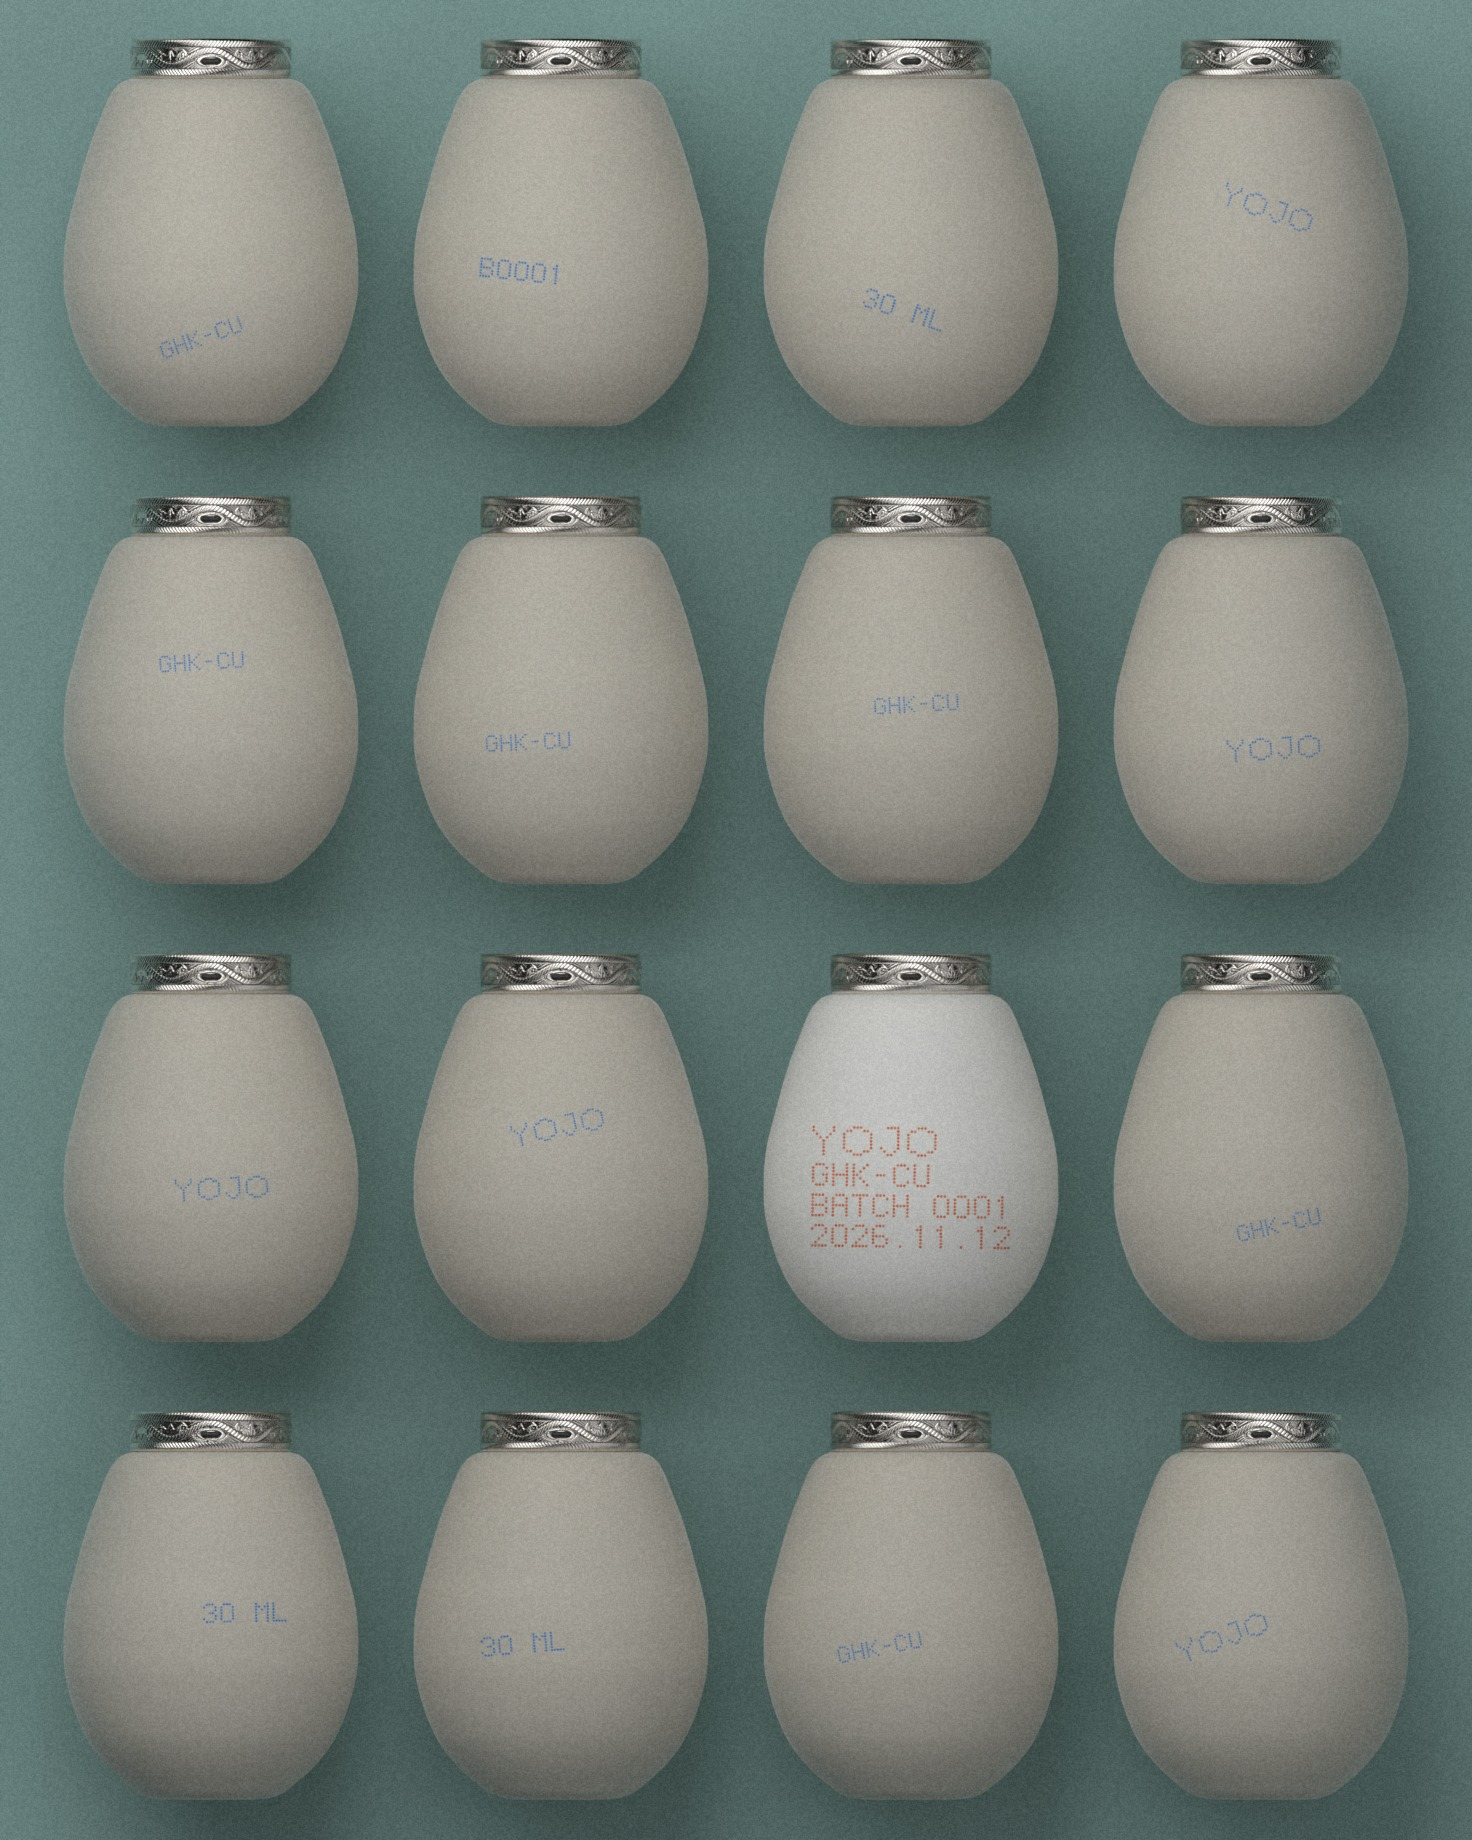
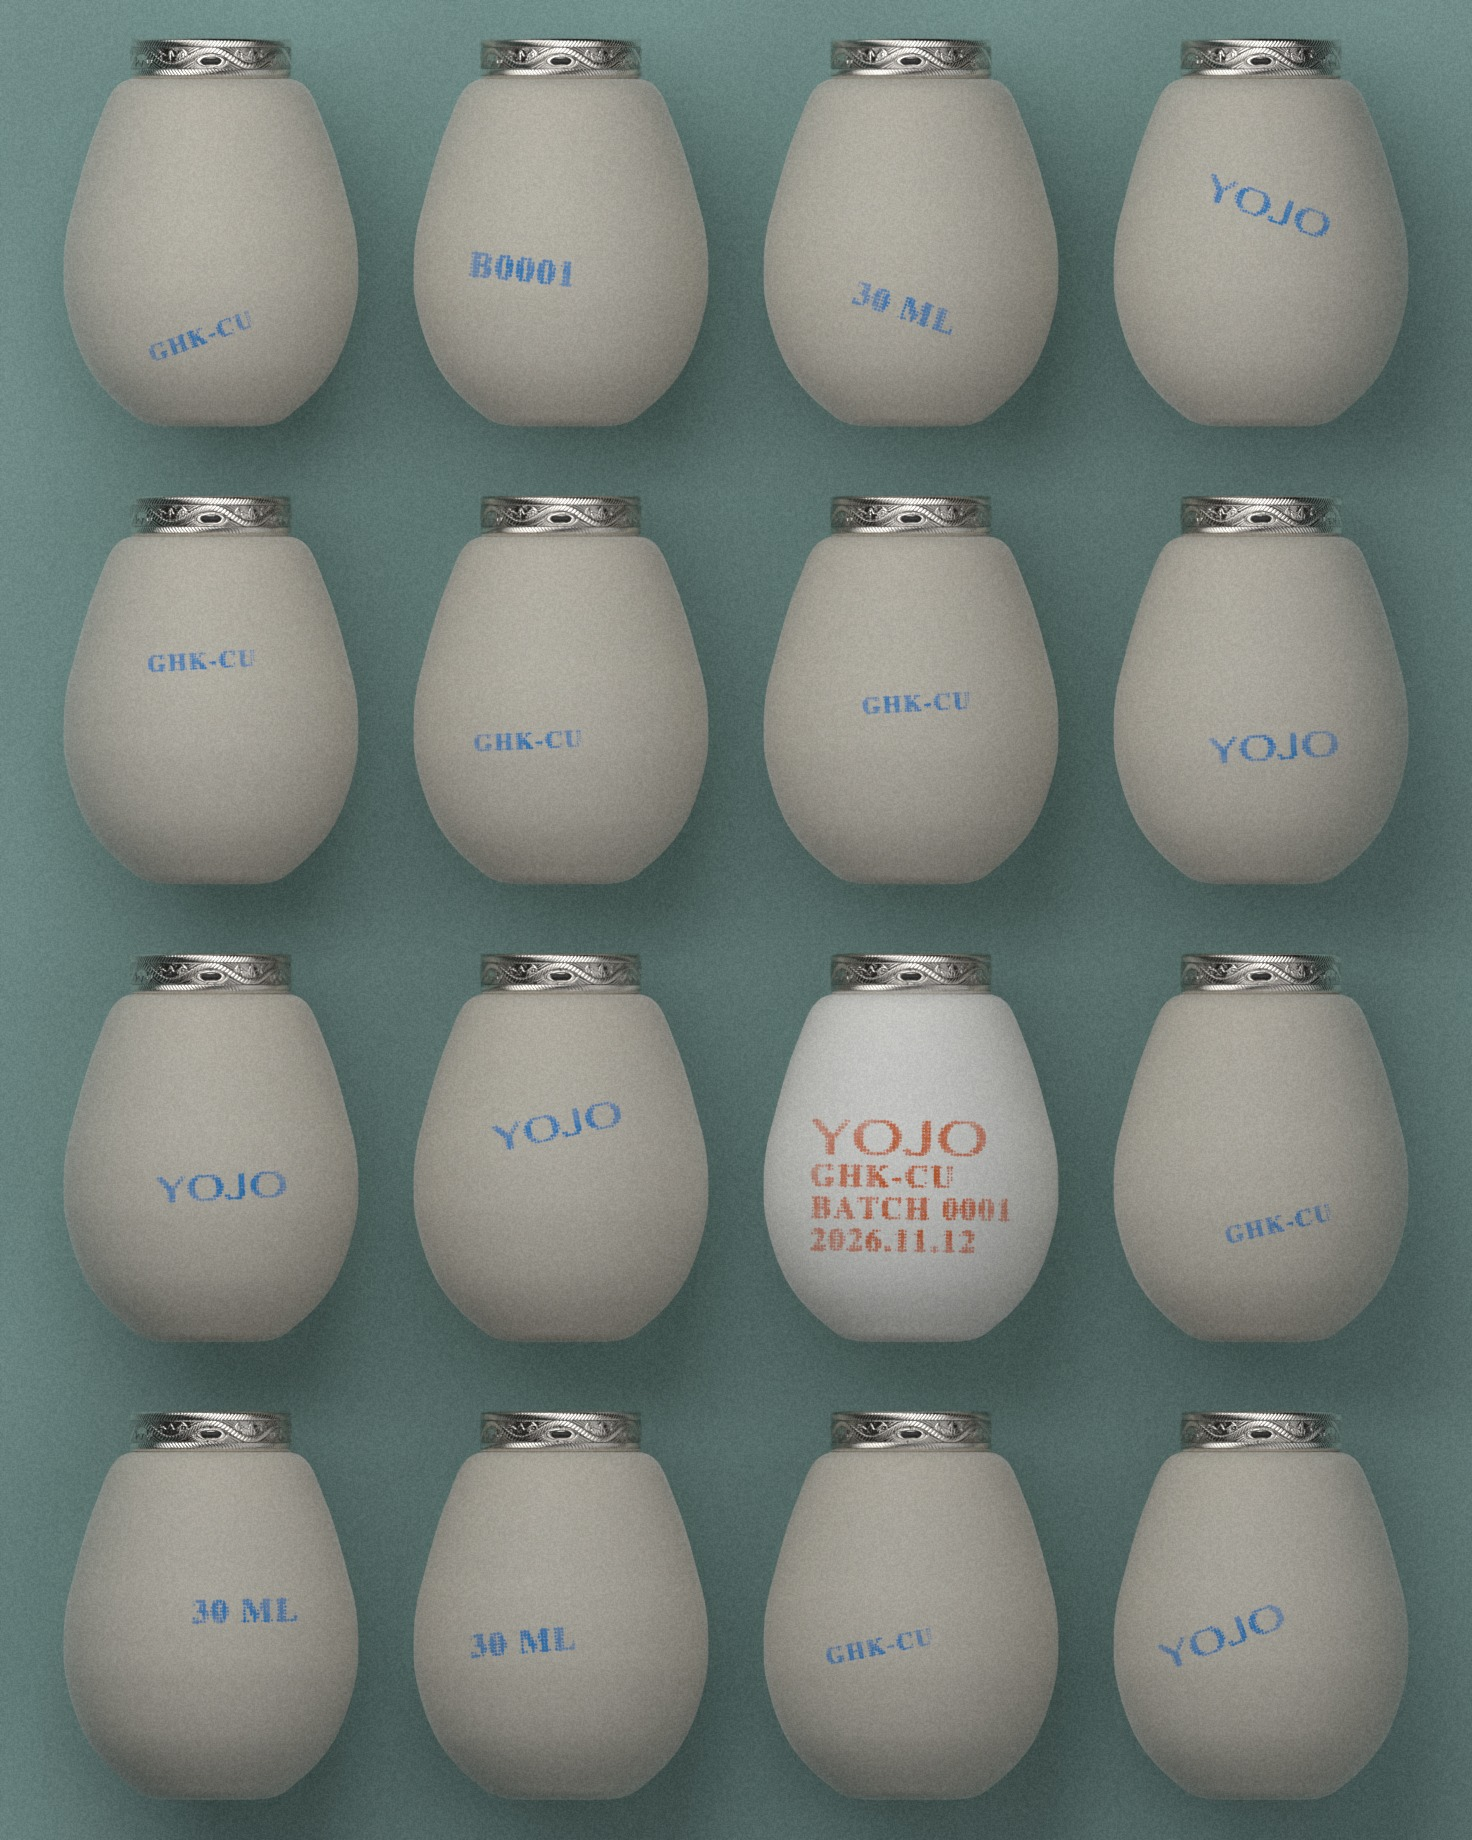
Batch stamp: halftone serif from the wordmark, printed like a real stamp; grid re-rendered
Claude-Session: https://claude.ai/code/session_01LTamVAmjQRnS3kntakEzcs

diff --git a/yojo/model/stamp/dirs.py b/yojo/model/stamp/dirs.py
@@ -1,0 +1,84 @@
+import numpy as np, random
+from PIL import Image, ImageDraw, ImageFont, ImageFilter
+INTER_BLACK = '/usr/share/fonts/opentype/inter/Inter-Black.otf'
+SERIF = [p for p in __import__('glob').glob('/usr/share/fonts/**/FreeSerifBold.*', recursive=True)][0]
+def text_img(txt, font, size, sx=1.0, track=0):
+    f = ImageFont.truetype(font, size); asc, desc = f.getmetrics()
+    w = int(sum(f.getlength(c) for c in txt) + track * len(txt) + size)
+    im = Image.new('L', (w, asc + desc), 0); d = ImageDraw.Draw(im); x = 0
+    for c in txt: d.text((x, 0), c, fill=255, font=f); x += f.getlength(c) + track
+    im = im.crop(im.getbbox()); return im.resize((max(1, int(im.width * sx)), im.height), Image.LANCZOS)
+def wordmark(h):
+    im = Image.open('wordmark.png').convert('L'); im = im.crop(im.getbbox()); return im.resize((int(im.width * h / im.height), h), Image.LANCZOS)
+def coverage(im, rows):
+    cell = im.height / rows; cols = max(1, int(round(im.width / cell)))
+    a = np.asarray(im.resize((cols, rows), Image.BOX), np.float32) / 255; return a
+# ---- A: condensed square pixels, ink spread ----
+def render_A(lines, ink):
+    pitch, pad = 20, 0.14; out = []
+    for i, (kind, txt) in enumerate(lines):
+        src = text_img(txt, INTER_BLACK, 400, sx=0.62, track=40) if kind == 't' else text_img(txt, INTER_BLACK, 400, sx=0.62, track=40)
+        cov = coverage(src, 11 if kind == 'y' else 8); out.append(cov)
+    W = max(c.shape[1] for c in out) * pitch + 40; H = sum(c.shape[0] + 3 for c in out) * pitch + 20
+    im = Image.new('L', (W * 2, H * 2), 0); d = ImageDraw.Draw(im); y = 20; rnd = random.Random(2)
+    for cov in out:
+        for r in range(cov.shape[0]):
+            for c in range(cov.shape[1]):
+                if cov[r, c] > 0.5:
+                    x0 = 20 + c * pitch; y0 = y + r * pitch; g = pitch * pad
+                    d.rectangle([2 * (x0 + g), 2 * (y0 + g), 2 * (x0 + pitch - g), 2 * (y0 + pitch - g)], fill=int(255 * rnd.uniform(0.82, 1)))
+        y += (cov.shape[0] + 3) * pitch
+    im = im.resize((W, H), Image.LANCZOS).filter(ImageFilter.GaussianBlur(1.1)).point(lambda v: min(255, int(v * 1.25)))
+    return colorize(im, ink)
+# ---- B: halftone serif, YOJO from the real wordmark ----
+def render_B(lines, ink):
+    pitch = 14; out = []
+    for kind, txt in lines:
+        src = wordmark(600) if kind == 'y' else text_img(txt, SERIF, 400, track=30)
+        out.append(coverage(src, 16 if kind == 'y' else 10))
+    W = max(c.shape[1] for c in out) * pitch + 40; H = sum(c.shape[0] + 3 for c in out) * pitch + 20
+    S = 3; im = Image.new('L', (W * S, H * S), 0); d = ImageDraw.Draw(im); y = 20
+    for cov in out:
+        for r in range(cov.shape[0]):
+            for c in range(cov.shape[1]):
+                v = cov[r, c]
+                if v < 0.08: continue
+                rr = pitch * 0.62 * np.sqrt(v); cx = 20 + (c + 0.5) * pitch; cy = y + (r + 0.5) * pitch
+                d.ellipse([S * (cx - rr), S * (cy - rr), S * (cx + rr), S * (cy + rr)], fill=255)
+        y += (cov.shape[0] + 3) * pitch
+    return colorize(im.resize((W, H), Image.LANCZOS).filter(ImageFilter.GaussianBlur(0.5)), ink)
+# ---- C: wide heavy dots, double strike in two inks, off register ----
+def render_C(lines, inks):
+    pitch = 22; out = []
+    for kind, txt in lines:
+        src = text_img(txt, INTER_BLACK, 400, sx=1.45, track=60)
+        out.append(coverage(src, 8 if kind == 'y' else 6))
+    W = max(c.shape[1] for c in out) * pitch + 50; H = sum(c.shape[0] + 3 for c in out) * pitch + 30
+    S = 3; im = Image.new('L', (W * S, H * S), 0); d = ImageDraw.Draw(im); y = 20
+    for cov in out:
+        for r in range(cov.shape[0]):
+            for c in range(cov.shape[1]):
+                if cov[r, c] < 0.5: continue
+                cx = 20 + (c + 0.5) * pitch; cy = y + (r + 0.5) * pitch; rr = pitch * 0.40
+                d.ellipse([S * (cx - rr), S * (cy - rr), S * (cx + rr), S * (cy + rr)], fill=255)
+        y += (cov.shape[0] + 3) * pitch
+    m = im.resize((W, H), Image.LANCZOS)
+    paper = Image.new('RGB', (W, H), (238, 235, 222))
+    for ink, off in zip(inks, ((0, 0), (8, 5))):
+        layer = Image.new('L', (W, H), 0); layer.paste(m, off); multiply(paper, layer, ink)
+    return paper
+def multiply(paper, mask, ink):
+    p = np.asarray(paper, np.float32) / 255; a = np.asarray(mask, np.float32)[..., None] / 255 * 0.88
+    col = np.array(ink, np.float32) / 255; out = p * (1 - a) + p * col * a
+    paper.paste(Image.fromarray((out * 255).astype(np.uint8)))
+def colorize(mask, ink):
+    paper = Image.new('RGB', mask.size, (238, 235, 222)); multiply(paper, mask, ink); return paper
+lines = [('y', 'YOJO'), ('t', 'GHK-CU'), ('t', 'BATCH 0001'), ('t', '2026.11.12')]
+SKY, COP = (22, 143, 224), (240, 106, 18)
+a = render_A(lines, SKY); b = render_B(lines, SKY); c = render_C(lines, (SKY, COP))
+for n, im in (('A', a), ('B', b), ('C', c)): im.save(f'dir_{n}.png')
+H = 520; ims = [im.resize((int(im.width * H / im.height), H), Image.LANCZOS) for im in (a, b, c)]
+board = Image.new('RGB', (sum(i.width for i in ims) + 80, H + 60), (255, 255, 255)); x = 20
+d = ImageDraw.Draw(board); lab = ImageFont.truetype('/usr/share/fonts/opentype/inter/Inter-SemiBold.otf', 22)
+for n, im in zip('ABC', ims): board.paste(im, (x, 50)); d.text((x, 14), n, fill=(20, 20, 20), font=lab); x += im.width + 20
+board.save('dirs_board.png'); print(board.size)

diff --git a/yojo/model/stamp/natural.py b/yojo/model/stamp/natural.py
@@ -1,0 +1,58 @@
+# Direction B, printed like a real stamp on a curved shell: pressure falloff, dot gain, mottled ink, voids, satellites.
+import sys, math, random
+import numpy as np
+from PIL import Image, ImageDraw, ImageFilter
+sys.argv += [] ; exec(open('dirs.py').read().split('lines = [')[0])          # reuse text_img / wordmark / coverage
+def noise(W, H, scale, seed):
+    r = np.random.default_rng(seed).random((max(2, H // scale), max(2, W // scale))).astype(np.float32)
+    return np.asarray(Image.fromarray((r * 255).astype(np.uint8)).resize((W, H), Image.BICUBIC), np.float32) / 255
+def stamp_B(lines, pitch=14, seed=5, pressure=0.3, gain=0.05, voids=0.15, curve=True, blur=0.6, void_scale=4, rows_y=16, rows_t=10):
+    rnd = random.Random(seed); out = []
+    for kind, txt in lines:
+        src = wordmark(600) if kind == 'y' else text_img(txt, SERIF, 400, track=30)
+        out.append(coverage(src, rows_y if kind == 'y' else rows_t))
+    W = max(c.shape[1] for c in out) * pitch + 40; H = sum(c.shape[0] + 3 for c in out) * pitch + 20
+    S = 3; im = Image.new('L', (W * S, H * S), 0); d = ImageDraw.Draw(im); y = 20
+    for cov in out:
+        for r in range(cov.shape[0]):
+            for c in range(cov.shape[1]):
+                v = cov[r, c]
+                if v < 0.08: continue
+                rr = pitch * 0.62 * math.sqrt(v) * (1 + gain) * rnd.uniform(0.9, 1.08)
+                cx = 20 + (c + 0.5) * pitch + rnd.gauss(0, 0.05 * pitch); cy = y + (r + 0.5) * pitch + rnd.gauss(0, 0.05 * pitch)
+                ax = rnd.uniform(0.88, 1.1)
+                d.ellipse([S * (cx - rr * ax), S * (cy - rr / ax), S * (cx + rr * ax), S * (cy + rr / ax)], fill=int(255 * rnd.uniform(0.78, 1.0)))
+                if rnd.random() < 0.06:                                   # a stray satellite droplet
+                    a_ = rnd.uniform(0, 6.28); dd = rr + rnd.uniform(1.5, 3.5); sr = rnd.uniform(0.8, 1.6)
+                    sx, sy = cx + dd * math.cos(a_), cy + dd * math.sin(a_)
+                    d.ellipse([S * (sx - sr), S * (sy - sr), S * (sx + sr), S * (sy + sr)], fill=int(255 * rnd.uniform(0.5, 0.9)))
+        y += (cov.shape[0] + 3) * pitch
+    m = np.asarray(im.resize((W, H), Image.LANCZOS).filter(ImageFilter.GaussianBlur(blur)), np.float32) / 255
+    m = np.clip(m * 1.15, 0, 1)                                            # ink spread joins close dots
+    # pressure: strongest in the middle of the stamp, fading to the edges, uneven
+    yy, xx = np.mgrid[0:H, 0:W]; cxn = (xx / W - 0.5) * 2; cyn = (yy / H - 0.5) * 2
+    press = 1 - pressure * np.clip((cxn ** 2 * 0.8 + cyn ** 2 * 0.5), 0, 1) if curve else np.ones((H, W))
+    press = press * (0.82 + 0.3 * noise(W, H, 90, seed + 1))
+    # shell texture: ink skips the high points
+    shell = noise(W, H, void_scale, seed + 2) * 0.6 + noise(W, H, void_scale * 3, seed + 3) * 0.4
+    hole = np.clip((shell - (1 - voids)) / 0.08, 0, 1)
+    a = np.clip(m * press * (1 - 0.85 * hole) * (0.88 + 0.24 * noise(W, H, 5, seed + 4)), 0, 1)
+    return Image.fromarray((a * 255).astype(np.uint8))
+if __name__ == '__main__':
+    lines = [('y', 'YOJO'), ('t', 'GHK-CU'), ('t', 'BATCH 0001'), ('t', '2026.11.12')]
+    sets = [('light', dict(pressure=0.18, gain=0.03, voids=0.07, blur=0.5)),
+            ('medium', dict(pressure=0.3, gain=0.05, voids=0.15, blur=0.6)),
+            ('strong', dict(pressure=0.42, gain=0.08, voids=0.24, blur=0.75))]
+    ims = []
+    for n, kw in sets:
+        m = stamp_B(lines, **kw); im = colorize(m, (22, 143, 224)); im.save(f'nat_{n}.png'); m.save(f'nat_{n}_mask.png'); ims.append((n, im))
+    H = 520; rs = [(n, i.resize((int(i.width * H / i.height), H), Image.LANCZOS)) for n, i in ims]
+    board = Image.new('RGB', (sum(i.width for _, i in rs) + 80, H + 60), (255, 255, 255)); x = 20
+    d = ImageDraw.Draw(board); lab = ImageFont.truetype('/usr/share/fonts/opentype/inter/Inter-SemiBold.otf', 22)
+    for n, im in rs: board.paste(im, (x, 50)); d.text((x, 14), n, fill=(20, 20, 20), font=lab); x += im.width + 20
+    board.save('natural_board.png')
+    z = []
+    for n, im in ims: z.append(im.crop((0, 0, im.width // 2, im.height // 2)))
+    zb = Image.new('RGB', (sum(i.width for i in z) + 40, z[0].height), (255, 255, 255)); x = 0
+    for i in z: zb.paste(i, (x, 0)); x += i.width + 20
+    zb.save('natural_zoom.png'); print('ok')
